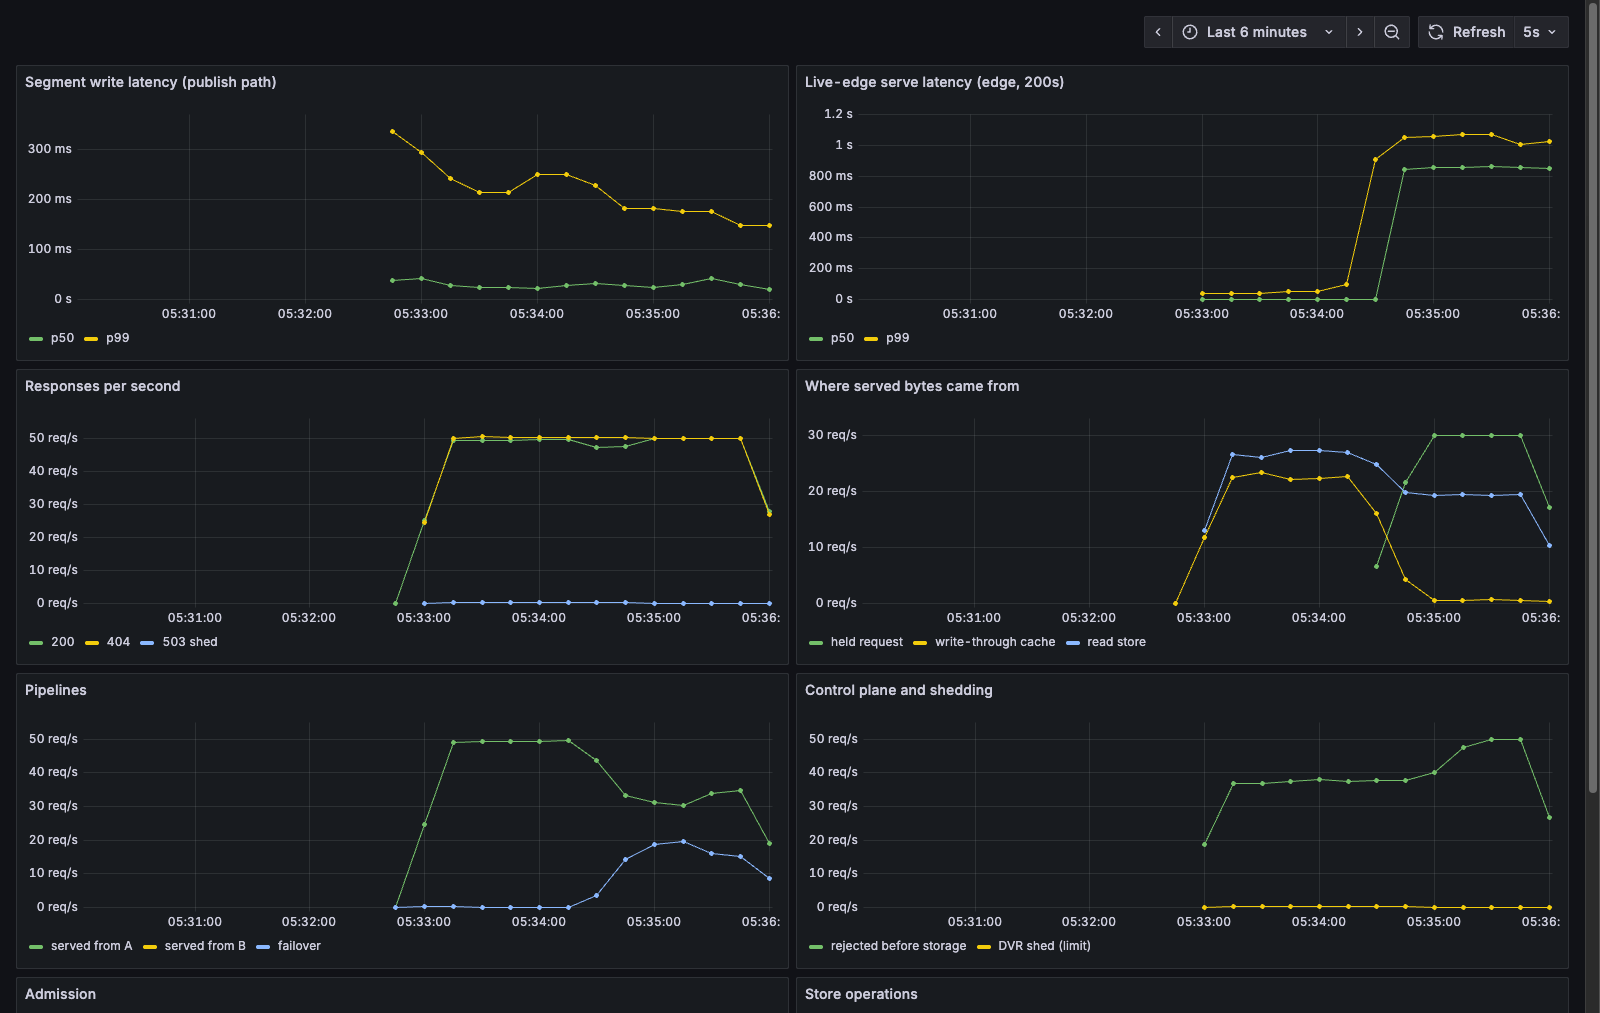
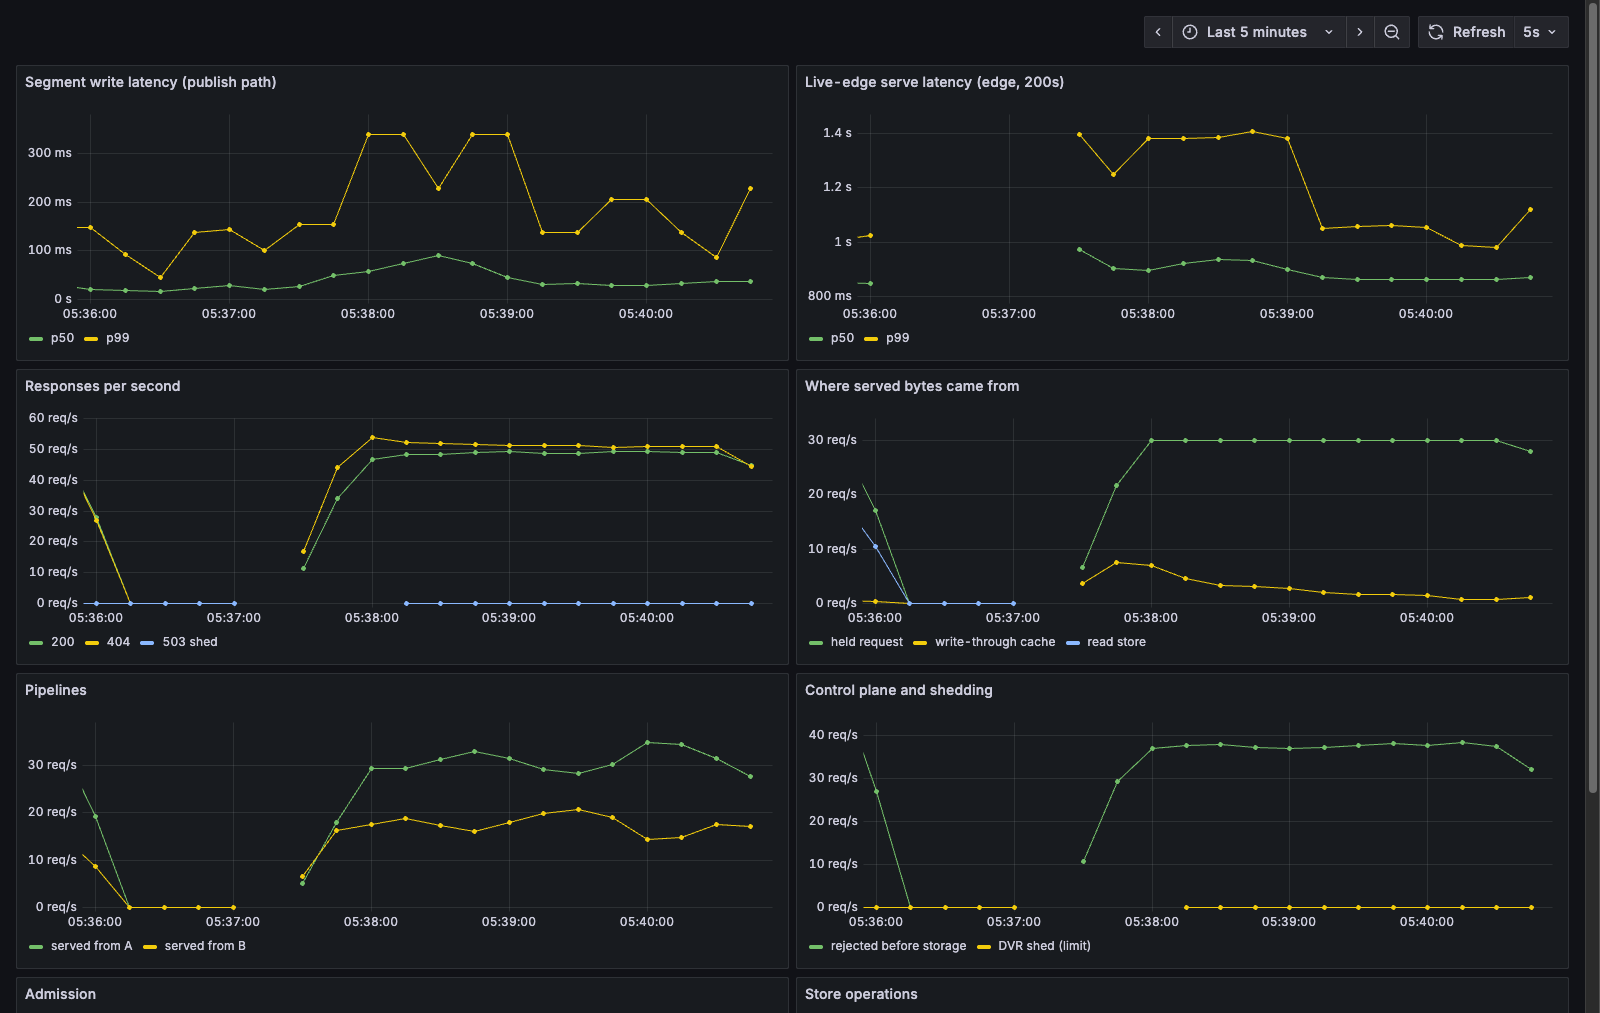
Capacity note, README milestones and Grafana capture, demo flushes stores (bug 10)

diff --git a/docs/CAPACITY.md b/docs/CAPACITY.md
@@ -1,0 +1,41 @@
+# Capacity note
+
+Derived from the measurements in [`NUMBERS.md`](../NUMBERS.md). Everything here was measured on
+one laptop over loopback, with the load generator sharing the cores. Read it as a statement about
+where the bottlenecks sit and in what ratio, not as production sizing.
+
+## What one edge-server process served
+
+| Measured | Figure | Source |
+|---|---|---|
+| Replay reads with one Netty I/O thread, before any live segment was missed | at least 1,600 DVR requests/s (the sweep's top; the knee is above it) | exp5 capacity sweep |
+| Mean replay response size across the three renditions | about 0.66 MB (1.12, 0.62, 0.25 MB) | `data/segments/sizes.json` |
+| So replay bytes per I/O thread | at least about 1 GB/s | the two rows above |
+| Same process at 2x (3,200/s) with priority off | collapsed: a median 1,523 of 2,250 live deliveries missed | exp5 |
+| Same process at 2x with priority on | 0 missed; replay held at 1,600/s, half refused with 503 | exp5 |
+| Live storm, 100 caches x 3 renditions every 2 s | 0 missed, 0.5 store reads per published segment, write p99 45 ms | exp1 |
+
+## What the publish path needs
+
+Two pipelines times three renditions is six PUTs every two seconds, about 2 MB each way. At 100
+caches of storm the isolated write p99 was 45 ms, against a 500 ms budget, so the publish path's
+headroom is large and its risk is not volume but interference: in one process with shared event
+loops, a replay flood took it from tens of milliseconds to 5.6 s (bug 9), and a slow shared store
+took it from 62 to 466 ms (exp6).
+
+## What that implies, with the caveats attached
+
+- **The live edge is nearly free per cache.** Each held request costs a subscription, not a thread,
+  and one publish answers every cache waiting for that segment from memory. In exp1, 300 responses
+  per segment cost about half a store read. The live-edge cost scales with bytes out, not requests.
+- **Replay is what needs capacity planning.** DVR reads miss the live-edge cache by design and go
+  to the read store. They are also what overloads the process first, which is why they are the
+  class that is shed.
+- **Bytes out per process is the unit.** At roughly 1 GB/s of responses per I/O thread, and an 8 Mb/s
+  ladder (all three renditions), one I/O thread could in principle feed on the order of a thousand
+  caches pulling every rendition of the live edge. That number assumes loopback, ignores TLS, NIC
+  limits and the cache tier's own behaviour, and has not been measured. It is here to show how
+  one would size it, not what the answer is.
+- **Isolation is not optional at any size.** Every write-latency failure we saw came from sharing
+  something with the serve path (an event loop, a store, a store connection), never from write
+  volume.

diff --git a/README.md b/README.md
@@ -38,8 +38,26 @@ the wall clock (headless Chrome and hls.js, `results/m5_player.jsonl`):
 
 ![Demo page: the live stream playing through the origin, with drift and origin counters](docs/demo.png)
 
+The same counters in Grafana (`docker compose --profile obs up -d`), during a demo run with a small fleet:
+
+![Grafana dashboard: write latency, live-edge serve latency, where bytes came from, pipelines, control plane](docs/grafana.png)
+
 The bugs found on the way, including the ones that invalidated early numbers, are in
-[`BUG_LOG.md`](BUG_LOG.md).
+[`BUG_LOG.md`](BUG_LOG.md). How the measurements translate into sizing is in
+[`docs/CAPACITY.md`](docs/CAPACITY.md).
+
+## Milestones
+
+| | Deliverable | Done-when, as measured |
+|---|---|---|
+| M0 | Repo, CI, Compose, ffmpeg packager | 30 two-second CMAF segments per rendition rendered, sizes in `data/segments/sizes.json` |
+| M1 | Publish and edge servers, chunked store, DASH manifest | 10 caches played 60 s with 900 of 900 deliveries, 0 gaps |
+| M2 | Two pipelines, first valid, hold-open, negative caching, control plane | exp2 and exp3 |
+| M3 | Write-through cache, separate stores and processes, storm mode | exp1 |
+| M4 | Priority and shedding, 404 storm, three repeats, `NUMBERS.md` | exp4, exp5 |
+| M5 | Stream-event headers, HLS with blocking reload, player demo, Grafana, bug log | a browser played the live edge at 0 segments of median drift (max 1) |
+| M6 | Restart durability, slow store, capacity note | exp7, exp6, `docs/CAPACITY.md` |
+| Extra | Chaos run with invariants | exp8: 24 faults across 3 runs, 0 of 67,500 deliveries missed or corrupt |
 
 ## Run it
 
